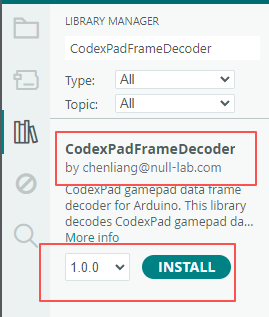
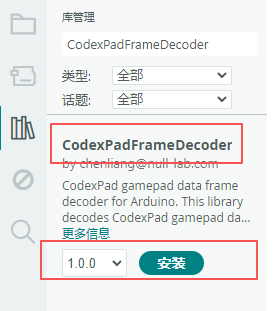
文档添加接线等说明

Changed region(s): [[0.0, 0.0, 1.0, 1.0], [0.2379, 0.1158, 0.803, 0.1736]]

diff --git a/README.md b/README.md
@@ -6,7 +6,9 @@
 
 This library is a **data frame decoder** for the **CodexPad** series gamepads on the **Arduino** platform. It receives raw byte streams via a `Stream` object, parses the data protocol frames, and extracts button states and joystick axis values. It is suitable for scenarios where gamepad data is received through a serial or Bluetooth transparent transmission module.
 
-**The library itself does not handle Bluetooth connections**; it only handles the verification and parsing of the gamepad data protocol frames. For details on how to establish a Bluetooth connection (e.g., by sending AT commands), please refer to the `Connect()` function in the specific examples.
+> **💡 About `Stream`**: `Stream` is the base class for data stream communication in the Arduino core library. It defines the reading and parsing functionality in Arduino and provides a unified interface for all serial communications. Common classes like `HardwareSerial` (hardware serial class) and `SoftwareSerial` (software serial class) both inherit from `Stream`, and `Serial` is a predefined instance of the `HardwareSerial` class. This library receives data via the `Stream` interface, so it does not depend on any specific hardware communication method. You can pass any object that implements the `Stream` interface (such as `Serial`, `SoftwareSerial`, etc.) into this library. For more information about `Stream`, see the [Arduino Stream Official Documentation](https://docs.arduino.cc/language-reference/en/functions/communication/stream/).
+
+**The library itself does not handle Bluetooth connections**; it only verifies and parses the gamepad data protocol frames. For how to establish a Bluetooth connection (e.g., by sending AT commands), please refer to the `Connect()` function in the specific examples.
 
 For detailed information about CodexPad products, please refer to the following product documentation.
 
@@ -17,11 +19,32 @@ For detailed information about CodexPad products, please refer to the following 
 
 ## Supported Platforms
 
-This library relies only on the `Stream` interface. It receives and parses CodexPad gamepad data protocol frames via `Stream` and is not concerned with the Bluetooth connection process or bound to any specific hardware. It is suitable for any Arduino-compatible platform that supports `Stream` input, including those using an external Bluetooth transparent transmission module (such as BLE-UNO, NL-16, etc.).
+This library only relies on the `Stream` interface. It receives and parses CodexPad gamepad data protocol frames via `Stream` and is not concerned with the Bluetooth connection process or bound to any specific hardware. It is suitable for any Arduino-compatible platform that supports `Stream` input, including those using an external Bluetooth transparent transmission module (such as BLE-UNO, NL-16, etc.).
+
+### Supported Bluetooth Modules
+
+| Supported Bluetooth Modules |
+| :------------ |
+| NL-16 (V1.2+) |
+| HC-05         |
+| JDY-08        |
+| Other Bluetooth transparent transmission modules supporting AT commands |
+
+### Supported Hardware Platforms
+
+| Supported Hardware Platforms |
+| :--- |
+| Arduino UNO  |
+| Arduino Nano |
+| Arduino Mega 2560 |
+| BLE-UNO |
+| Other Arduino-compatible platforms |
+
+> **📌 Note**: This library is not limited to the above platforms. Any Arduino-compatible board that supports the `Stream` interface can be used.
 
 ## Features
 
-- **Real-time Button Event Detection**: Reads the input status of all buttons in real-time, and distinguishes between three events: **pressed**, **released**, and **holding**.
+- **Real-time Button Event Detection**: Reads the input status of all buttons in real-time and distinguishes between three events: **pressed**, **released**, and **holding**.
 
 - **High-Precision Joystick Data**: Retrieves the analog values of the left and right joystick X and Y axes, ranging from 0 to 255, providing precise control input.
 
@@ -49,21 +72,21 @@ Please refer to the method provided in the product manual to obtain your gamepad
 
 - Power on the gamepad. After powering on, the gamepad will automatically enter a **connection standby state** where it is discoverable via Bluetooth. At this time, the gamepad's indicator light should be **slowly flashing (approximately once per second)**.
 
-### Installing CodexPad Frame Decoder Library
+### Installing the CodexPad Frame Decoder Library
 
 1. **Open Arduino IDE Library Manager**
-   - Menu: **Tools** → **Manage Libraries...**
-   - Keyboard shortcut: `Ctrl+Shift+I` (Windows/Linux) or `Cmd+Shift+I` (Mac)
+   - Menu bar: **Tools** → **Manage Libraries...**
+   - Shortcut: `Ctrl+Shift+I` (Windows/Linux) or `Cmd+Shift+I` (Mac)
 
 2. **Search and Install**
    - In the search box, type: `CodexPadFrameDecoder`
    - Locate the CodexPadFrameDecoder library
-   - **Ensure the latest version is selected** in the version dropdown
+   - **Ensure the latest version is selected** in the dropdown menu
    - Click the **INSTALL** button
 
-   ![Search for CodexPadFrameDecoder in Library Manager](assets/images/en/install_codexpad_frame_decoder_library.png)
+    ![Search for CodexPadFrameDecoder in Library Manager](assets/images/en/install_codexpad_frame_decoder_library.png)
 
-   > **📌 Note:** The screenshot is for reference only. Please make sure to install the latest available version.
+    > **📌 Note:** The screenshot is for reference only. Please make sure to install the latest available version.
 
 ## Example Descriptions
 
@@ -71,17 +94,83 @@ Examples are organized in two levels: **functionality** and **Bluetooth module**
 
 Each functionality example contains exclusive subdirectories for different Bluetooth modules. The `Connect()` function implementation in each module's exclusive example differs to ensure the correct Bluetooth connection; the parsing part uniformly uses this library's `CodexPadFrameDecoder` class. You can choose the corresponding Bluetooth module example based on the module you are using.
 
+### Hardware Wiring
+
+Before running the examples, please complete the hardware wiring according to the Bluetooth module you are using.
+
+#### Using the BLE-UNO Development Board
+
+BLE-UNO is a development board that integrates a low-power Bluetooth chip onto the official standard Arduino UNO V3.0 motherboard, providing wireless Bluetooth functionality. The Bluetooth chip is already integrated, so **no additional wiring for the Bluetooth module is required**. However, to conveniently view the program's debug output, it is recommended to wire the debug serial port as follows:
+
+| BLE-UNO | USB-to-TTL Module Pin |
+| :------ | :--- |
+| 5       | RXD |
+| 6       | TXD |
+| VCC     | 5V |
+| GND     | GND |
+
+> **📌 Note**: The pin numbers (5, 6) in the table above are the default configuration in the example code. If you have modified the debug serial port pins in your code, please refer to the `kDebugSerialRxPin` and `kDebugSerialTxPin` constants defined in your code.
+
+![BLE-UNO Debug Serial Wiring Diagram](assets/images/zh-CN/wiring_ble_uno_debug.png)
+
+#### Using Standalone Bluetooth Transparent Transmission Modules such as NL-16, HC-05
+
+Modules like NL-16 and HC-05 need to be connected to the development board via a serial port. When using the NL-16 Bluetooth module, version V1.2 or higher is required.
+
+The following is a typical wiring example (using an Arduino UNO development board with the NL-16 Bluetooth module):
+
+**Bluetooth Module Wiring**
+
+| Module Pin | Arduino Pin |
+| :---------- | :----------- |
+| +5V         | 5V           |
+| GND         | GND          |
+| TXD         | RX0          |
+| RXD         | TX0          |
+| STAT/D-RST  | RESET        |
+
+Note: The table above is a wiring example for the NL-16 Bluetooth module on an Arduino UNO development board. Wiring may vary slightly for different Bluetooth modules; please wire according to the actual interface of your Bluetooth module.
+
+**Debug Serial Wiring**
+
+| Arduino Pin | USB-to-TTL Module Pin |
+| :----------- | :-------------- |
+| 5            | RXD             |
+| 6            | TXD             |
+| 3.3V         | VCC             |
+| GND          | GND             |
+
+> **📌 Note**: The pin numbers (5, 6) in the table above are the default configuration in the example code. If you have modified the debug serial port pins in your code, please refer to the `kDebugSerialRxPin` and `kDebugSerialTxPin` constants defined in your code.
+
+![Bluetooth Module Wiring Diagram](assets/images/zh-CN/wireless_downloard.png)
+![Serial Debug Wiring Diagram](assets/images/zh-CN/wiring_uno_nl16.png)
+
 ### Basic Polling Example (`basic_polling`)
 
-- **Example Description**: Connects to the CodexPad via Bluetooth Device Address and queries and prints all its button states and joystick values in real-time.
+- **Example Description**: Connects to the CodexPad via Bluetooth Device Address, and queries and prints all its button states and joystick values in real-time.
 
 - **BLE-UNO / NL-16 Bluetooth Module Example Location**: In the Arduino IDE, find this example via **File** → **Examples** → **CodexPadFrameDecoder** → **basic_polling** → **ble_uno_or_nl_16_module**.
 
 ### Input State Detection Example (`inputs_detection`)
 
-- **Example Description**: Connects to the CodexPad via Bluetooth Device Address and prints messages upon detecting changes in button states and joystick values.
+- **Example Description**: Connects to the CodexPad via Bluetooth Device Address, and prints messages when changes in button states and joystick values are detected.
 
 - **BLE-UNO / NL-16 Bluetooth Module Example Location**: In the Arduino IDE, find this example via **File** → **Examples** → **CodexPadFrameDecoder** → **inputs_detection** → **ble_uno_or_nl_16_module**.
+
+### How to View Debug Information
+
+After the example program runs, all gamepad button states and joystick values will be output through the **debug serial port**. Since the default hardware serial port (D0/D1) is occupied by the Bluetooth module, it is not possible to view debug information via this port. You need to view the output through the debug serial port. Follow these steps:
+
+1. Prepare a **USB-to-TTL module** and wire it according to the hardware wiring instructions. The TXD pin of the **USB-to-TTL module** should be connected to IO 6, and the RXD pin should be connected to IO 5.
+2. Plug the USB-to-TTL module into the computer's USB port. The system will recognize a new serial port (COM port).
+3. Open any serial port debugging tool.
+4. Select the serial port (COM port) corresponding to the USB-to-TTL module, and set the baud rate to **115200**, data bits to 8, stop bits to 1, and parity to None.
+5. Click "Open Serial Port" to view the debug information in real-time.
+
+> **📌 Note**:
+>
+> 1. The debug serial port pin numbers (5/6) and baud rate (115200) above are the default values in the example code. If you have modified the pins or baud rate for the debug serial port in your code, please refer to the actual configuration in your code.
+> 2. After a successful connection, you will first see the `Connected` message in the debug serial port. When you press a gamepad button or move a joystick, the corresponding state changes will be printed immediately, e.g., `Button Cross(A): pressed`, `L(X:128, Y:0)`, etc.
 
 ## API Reference
 

diff --git a/README.zh-CN.md b/README.zh-CN.md
@@ -6,6 +6,8 @@
 
 本库为 **CodexPad** 系列手柄在 **Arduino** 平台上的**数据帧解析器**。它通过 `Stream` 对象接收原始数据字节流，解析出数据协议帧，并提取出按键状态与摇杆轴值。适用于通过串口或蓝牙透传模块接收手柄数据的场景。
 
+> **💡 关于 `Stream`**：`Stream` 是 Arduino 核心库中用于数据流通信的基类。它定义了 Arduino 中的读取和解析功能，为所有的串口通信提供了统一的接口。常见的 `HardwareSerial`（硬件串口类）和 `SoftwareSerial`（软件串口类）都继承自 `Stream`，其中 `Serial` 是 `HardwareSerial` 类的一个预定义实例。本库通过 `Stream` 接口接收数据，因此不依赖特定的硬件通信方式，您可以将任何实现了 `Stream` 接口的对象（如 `Serial`、`SoftwareSerial` 等）传入本库。关于 `Stream` 的详细信息详见 [Arduino Stream 官方文档](https://docs.arduino.cc/language-reference/en/functions/communication/stream/)。
+
 **库本身不涉及蓝牙连接**，只负责对手柄数据协议帧的校验与解析。如何建立蓝牙连接（如发送 AT 指令）请参考具体示例中的 `Connect()` 函数。
 
 关于 CodexPad 产品的详细信息，请查阅以下产品文档。
@@ -18,6 +20,27 @@
 ## 支持的平台
 
 本库仅依赖 `Stream` 接口，通过 `Stream` 接收 CodexPad 手柄的数据协议帧进行解析，并不关心蓝牙连接过程，不与特定硬件绑定，适用于通过串口外接蓝牙透传模块（如 BLE-UNO、NL-16等）或任意支持  `Stream`  输入的 Arduino 兼容平台。
+
+### 支持的蓝牙模块
+
+| 支持的蓝牙模块 |
+| :------------ |
+| NL-16 (V1.2+) |
+| HC-05         |
+| JDY-08        |
+| 其他支持 AT 指令的蓝牙透传模块 |
+
+### 支持的硬件平台
+
+| 支持的硬件平台 |
+| :--- |
+| Arduino UNO  |
+| Arduino Nano |
+| Arduino Mega 2560 |
+| BLE-UNO |
+| 其他兼容 Arduino 的平台 |
+
+> **📌 注意**：本库不限于以上平台，任何支持 `Stream` 接口的 Arduino 兼容板卡均可使用。
 
 ## 特性
 
@@ -71,6 +94,57 @@
 
 每个功能示例下会包含不同蓝牙模块的专属子目录，模块专属示例中的 `Connect()` 函数实现不同，保证蓝牙连接正确；解析部分则统一使用本库的 `CodexPadFrameDecoder` 类。您可根据使用的蓝牙模块，自行选择对应的蓝牙模块示例。
 
+### 硬件接线
+
+运行示例前，请根据您所使用的蓝牙模块完成硬件接线。
+
+#### 使用 BLE-UNO 开发板
+
+BLE-UNO是基于官方标准Arduino uno V3.0主板上集成低功耗蓝牙芯片而开发一款具备无线蓝牙功能的开发板，已集成蓝牙芯片，**无需为蓝牙模块额外接线**。但为方便查看程序输出的调试信息，建议按以下方式引出调试串口：
+
+| BLE-UNO | USB转TTL模块引脚 |
+| :------ | :--- |
+| 5       | RXD |
+| 6       | TXD |
+| VCC     | 5V |
+| GND     | GND |
+
+> **📌 提示**：上表中的引脚号 (5, 6) 为示例代码中的默认配置。如果您在代码中修改了调试串口引脚，请以您代码中定义的 `kDebugSerialRxPin` 和 `kDebugSerialTxPin` 常量为准。
+
+![BLE-UNO 调试串口接线图](assets/images/zh-CN/wiring_ble_uno_debug.png)
+
+#### 使用 NL-16、HC-05 等独立蓝牙透传模块
+
+像NL-16、HC-05像这些蓝牙模块，需要通过串口与开发板配合连接使用。使用NL-16蓝牙模块时，需使用 V1.2 及以上版本的NL-16蓝牙模块。
+
+以下为典型接法（以 Arduino UNO 开发板使用 NL-16蓝牙模块为例）：
+
+**蓝牙模块接线**
+
+| 模块引脚     | Arduino 引脚 |
+| :---------- | :----------- |
+| +5V         | 5V           |
+| GND         | GND          |
+| TXD         | RX0          |
+| RXD         | TX0          |
+| STAT/D-RST  | RESET        |
+
+注意：上表是NL-16蓝牙模块在Arduino uno 开发板上的接线示例，不同蓝牙模块的接线略有不同，请根据蓝牙模块实际的接口进行接线。
+
+**调试串口接线**
+
+| Arduino 引脚 | USB转TTL模块引脚 |
+| :----------- | :-------------- |
+| 5            | RXD             |
+| 6            | TXD             |
+| 3.3V         | VCC             |
+| GND          | GND             |
+
+> **📌 提示**：上表中的引脚号 (5, 6) 为示例代码中的默认配置。如果您在代码中修改了调试串口引脚，请以您代码中定义的 `kDebugSerialRxPin` 和 `kDebugSerialTxPin` 常量为准。
+
+![蓝牙模块接线图](assets/images/zh-CN/wireless_downloard.png)
+![串口调试接线图](assets/images/zh-CN/wiring_uno_nl16.png)
+
 ### 基础轮询示例 (`basic_polling`)
 
 - **示例说明**：通过Bluetooth Device Address与CodexPad蓝牙连接，实时查询、打印其所有按钮状态与摇杆数值。
@@ -82,6 +156,21 @@
 - **示例说明**：通过Bluetooth Device Address与CodexPad蓝牙连接，检测到按钮状态与摇杆数值变化后打印。
 
 - **BLE-UNO / NL-16 蓝牙模块示例位置**：在 Arduino IDE 中，通过 **文件** → **示例** → **CodexPadFrameDecoder** → **inputs_detection** → **ble_uno_or_nl_16_module** 找到该示例。
+
+### 如何查看调试信息
+
+示例程序运行后，所有手柄的按键状态和摇杆数值都会通过**调试串口**输出。由于示例中默认的硬件串口（D0/D1）已被蓝牙模块占用，无法通过此串口进行查看调试信息，需要通过调试串口查看输出。请按照以下步骤操作：
+
+1. 准备一个 **USB转TTL模块**，按照硬件接线的说明进行接线，其中**USB转TTL模块**的TXD引脚接到IO 6，RXD引脚则接到IO 5。
+2. 将 USB转TTL模块插入电脑的 USB 口，此时系统会识别出一个新的串口（COM 口）。
+3. 打开任意一款串口调试工具。
+4. 选择 USB转TTL模块对应的串口（COM 口），并设置波特率为 **115200**，数据位 8，停止位 1，校验位 None。
+5. 点击“打开串口”，即可实时查看调试信息。
+
+> **📌 提示**：
+>
+>1. 以上调试串口的引脚号（5/6）和波特率（115200）为示例代码的默认值。如果您在代码中修改了调试串口的引脚或波特率中的值，请以您代码中的实际配置为准。
+>2. 连接成功后，在调试串口中，您会先看到 `Connected` 的提示。当您按下手柄按键或推动摇杆时，对应的状态变化会立即打印出来，例如 `Button Cross(A): pressed`、`L(X:128, Y:0)` 等
 
 ## API说明
 